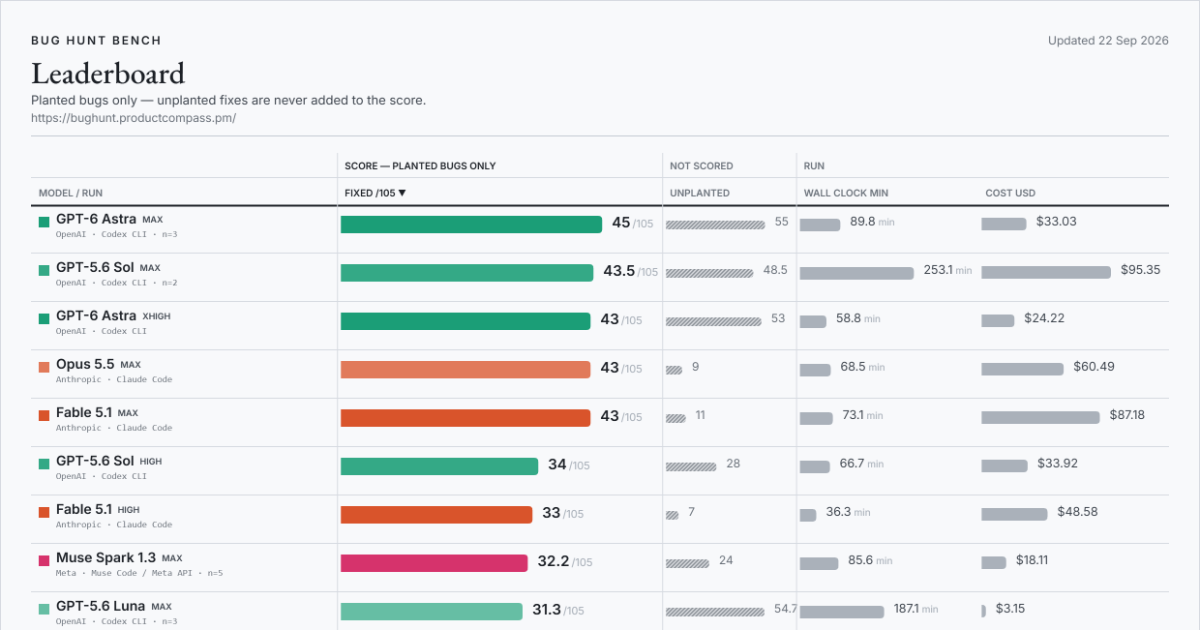
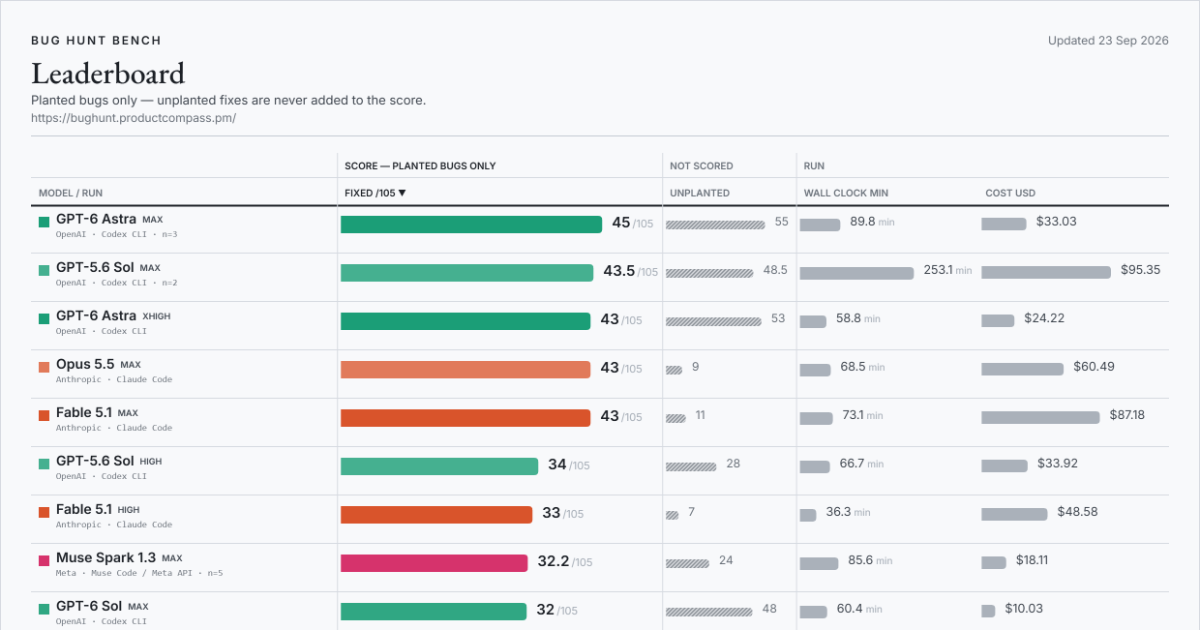
bug hunt bench: GPT-6 Sol (max effort) (32/105)

diff --git a/index.html b/index.html
@@ -22,14 +22,14 @@
 <meta property="og:title" content="Bug Hunt Bench — frontier coding models against real planted bugs">
 <meta property="og:description" content="A blind-graded benchmark of frontier coding models on real bugs planted in two production codebases. The score counts planted bugs only; extra fixes are tracked separately and never added.">
 <meta property="og:url" content="https://bughunt.productcompass.pm/">
-<meta property="og:image" content="https://bughunt.productcompass.pm/og-image.png?v=2026-09-22-42d2c5bd">
+<meta property="og:image" content="https://bughunt.productcompass.pm/og-image.png?v=2026-09-23-176222b2">
 <meta property="og:image:width" content="1200">
 <meta property="og:image:height" content="630">
 <meta property="og:image:alt" content="Bug Hunt Bench leaderboard">
 <meta name="twitter:card" content="summary_large_image">
 <meta name="twitter:title" content="Bug Hunt Bench — frontier coding models against real planted bugs">
 <meta name="twitter:description" content="A blind-graded benchmark of frontier coding models on real bugs planted in two production codebases. The score counts planted bugs only.">
-<meta name="twitter:image" content="https://bughunt.productcompass.pm/og-image.png?v=2026-09-22-42d2c5bd">
+<meta name="twitter:image" content="https://bughunt.productcompass.pm/og-image.png?v=2026-09-23-176222b2">
 <meta name="twitter:creator" content="@PawelHuryn">
 
 <link rel="icon" href="/assets/favicon.svg" type="image/svg+xml">

diff --git a/method.html b/method.html
@@ -20,14 +20,14 @@
 <meta property="og:title" content="Method, caveats and definitions — Bug Hunt Bench">
 <meta property="og:description" content="How Bug Hunt Bench is run and graded, what the board cannot tell you, and what every column on it means.">
 <meta property="og:url" content="https://bughunt.productcompass.pm/method">
-<meta property="og:image" content="https://bughunt.productcompass.pm/og-image.png?v=2026-09-22-42d2c5bd">
+<meta property="og:image" content="https://bughunt.productcompass.pm/og-image.png?v=2026-09-23-176222b2">
 <meta property="og:image:width" content="1200">
 <meta property="og:image:height" content="630">
 <meta property="og:image:alt" content="Bug Hunt Bench leaderboard">
 <meta name="twitter:card" content="summary_large_image">
 <meta name="twitter:title" content="Method, caveats and definitions — Bug Hunt Bench">
 <meta name="twitter:description" content="How Bug Hunt Bench is run and graded, what the board cannot tell you, and what every column on it means.">
-<meta name="twitter:image" content="https://bughunt.productcompass.pm/og-image.png?v=2026-09-22-42d2c5bd">
+<meta name="twitter:image" content="https://bughunt.productcompass.pm/og-image.png?v=2026-09-23-176222b2">
 <meta name="twitter:creator" content="@PawelHuryn">
 
 <link rel="icon" href="/assets/favicon.svg" type="image/svg+xml">

diff --git a/README.md b/README.md
@@ -7,9 +7,9 @@
 If the numbers save you a benchmark run of your own, **star this repo** — that is what keeps the bench findable, and new models are added as they ship.
 
 <!-- leaderboard:start -->
-![Bug Hunt Bench leaderboard, the featured runs, updated Sep 22, 2026](assets/leaderboard.png?v=2026-09-22-1b19116e)
+![Bug Hunt Bench leaderboard, the featured runs, updated Sep 23, 2026](assets/leaderboard.png?v=2026-09-23-1b19116e)
 
-**Updated Sep 22, 2026 · 118 rows from 174 scored runs · 36 models · 32 of 105 bugs have never been fixed by any model.**
+**Updated Sep 23, 2026 · 119 rows from 175 scored runs · 37 models · 31 of 105 bugs have never been fixed by any model.**
 
 **Current leader:** GPT-6 Astra at `max` effort — **45 / 105** (22/45 on repo 1, 23/60 on repo 2).
 
@@ -29,75 +29,76 @@ If the numbers save you a benchmark run of your own, **star this repo** — that
 | 10 | GPT-5.6 Sol | Codex CLI | high | 1 | **34** | 13 | 21 | 28 | 67 min | $33.92 | 2026-07-31 |
 | 11 | Fable 5.1 | Claude Code | high | 1 | **33** | 15 | 18 | 7 | 36 min | $48.58 | 2026-09-01 |
 | 12 | Muse Spark 1.3 | Muse Code / Meta API | max | 5 | **32.2** | 14.2 | 18 | 24 | 86 min | $18.11 | 2026-09-17 |
-| 13 | Opus 5.5 | Claude Code | high | 1 | **32** | 14 | 18 | 7 | 24 min | $23.03 | 2026-09-22 |
-| 14 | GPT-5.6 Terra | Codex CLI | max | 1 | **32** | 16 | 16 | 45 | 160 min | $27.98 | 2026-08-27 |
-| 15 | GPT-5.6 Luna | Codex CLI | max | 3 | **31.3** | 16 | 15.3 | 54.7 | 187 min | $3.15 | 2026-09-22 |
-| 16 | Pareto (ex-Union Alpha) | Claude Code / OpenRouter | default | 3 | **30.7** | 16 | 14.7 | 10.3 | 38 min | $4.81 | 2026-09-17 |
-| 17 | Opus 5.5 | Claude Code | medium | 1 | **30** | 11 | 19 | 15 | 17 min | $16.55 | 2026-09-22 |
-| 18 | GPT-5.6 Sol | Codex CLI | medium | 1 | **29** | 13 | 16 | 24 | 48 min | $15.77 | 2026-09-06 |
-| 19 | Fable 5.1 | Claude Code | low | 1 | **29** | 13 | 16 | 6 | 33 min | $33.00 | 2026-09-02 |
-| 20 | Fable 5.1 | Claude Code | xhigh | 1 | **29** | 13 | 16 | 4 | 60 min | $53.61 | 2026-09-10 |
-| 21 | Fable 5 | Claude Code | max | 1 | **29** | 12 | 17 | 5 | 57 min | $112.40 | 2026-08-01 |
-| 22 | Grok 4.7 | Grok Build CLI (ACP) | xhigh | 4 | **28.8** | 13 | 15.8 | 31.8 | 46 min | $22.89 floor | 2026-09-21 |
-| 23 | Grok 4.6 | Grok Build CLI (ACP) | xhigh | 3 | **28.7** | 11.7 | 17 | 18 | 43 min | $18.60 floor | 2026-09-14 |
-| 24 | GPT-6 Astra | Codex CLI | low | 1 | **27** | 18 | 9 | 25 | 32 min | $11.69 | 2026-09-05 |
-| 25 | Opus 5 | Claude Code | max | 1 | **27** | 13 | 14 | 2 | 60 min | $54.94 | 2026-08-01 |
-| 26 | Grok 4.7 | Grok Build CLI (ACP) | medium | 3 | **26.7** | 12 | 14.7 | 22.7 | 31 min | $16.76 floor | 2026-09-21 |
-| 27 | Qwen3.8-Flash | Claude Code / Alibaba API | max | 1 | **26** | 13 | 13 | 7 | 97 min | $1.81 | 2026-09-11 |
-| 28 | Opus 5 | Claude Code | xhigh | 1 | **26** | 14 | 12 | 3 | 50 min | $63.25 | 2026-08-28 |
-| 29 | Qwen3.8-Max | Claude Code / Alibaba API | max | 3 | **25.7** | 12.3 | 13.3 | 7 | 117 min | $26.76 | 2026-09-15 |
-| 30 | Opus 5 | Claude Code | medium | 1 | **24** | 11 | 13 | 4 | 30 min | $37.40 | 2026-08-27 |
-| 31 | Fable 5 | Claude Code | high | 1 | **24** | 9 | 15 | 3 | 31 min | $74.52 | 2026-07-26 |
-| 32 | MiMo-V2.6-Flash | Claude Code / OpenRouter | default | 3 | **23.3** | 8 | 15.3 | 7.3 | 71 min | $0.49 bill | 2026-09-22 |
-| 33 | Qwen3.8-Flash | Claude Code / Alibaba API | low | 1 | **23** | 11 | 12 | 7 | 98 min | $1.37 | 2026-09-11 |
-| 34 | GPT-5.6 Luna | Codex CLI | xhigh | 1 | **23** | 10 | 13 | 53 | 136 min | $2.50 | 2026-08-28 |
-| 35 | Grok 4.6 | Grok Build CLI (ACP) | high | 1 | **23** | 7 | 16 | 16 | 33 min | $15.73 floor | 2026-08-28 |
-| 36 | MiMo-V2.6-Pro | Claude Code / OpenRouter | default | 3 | **22.7** | 11.3 | 11.3 | 5.3 | 91 min | $0.86 bill | 2026-09-22 |
-| 37 | Grok 4.6 | Grok Build CLI (ACP) | medium | 1 | **22** | 9 | 13 | 11 | 26 min | $5.80 floor | 2026-08-28 |
-| 38 | Gemini 3.7 Flash | Gemini CLI (retired) + model-pinning gateway | high | 1 | **22** | 8 | 14 | 4 | 97 min | $8.43 | 2026-08-24 |
-| 39 | DeepSeek V4.1 Flash | Claude Code / DeepSeek API | max | 3 | **21.7** | 11.3 | 10.3 | 6.7 | 56 min | $0.78 bill | 2026-09-15 |
-| 40 | Fable 5.1 | Claude Code | medium | 1 | **21** | 8 | 13 | 3 | 23 min | $23.73 | 2026-09-10 |
-| 41 | Kimi K3 | Claude Code / OpenRouter | default | 1 | **21** | 4 | 17 | 6 | 108 min | $25.27 | 2026-07-26 |
-| 42 | Opus 5 | Claude Code | high | 1 | **21** | 11 | 10 | 6 | 37 min | $41.51 | 2026-07-26 |
-| 43 | Muse Spark 1.3 | Muse Code / Meta API | xhigh | 3 | **20.3** | 8 | 12.3 | 13.3 | 64 min | $13.71 | 2026-09-14 |
-| 44 | GPT-5.6 Terra | Codex CLI | xhigh | 1 | **20** | 9 | 11 | 29 | 57 min | $8.98 | 2026-08-28 |
-| 45 | Grok 4.7 | Grok Build CLI (ACP) | high | 3 | **19.3** | 8.7 | 10.7 | 15.7 | 38 min | $12.29 floor | 2026-09-21 |
-| 46 | DeepSeek V4.1 Flash | Claude Code / DeepSeek API | high | 1 | **19** | 9 | 10 | 4 | 26 min | $0.31 bill | 2026-09-10 |
-| 47 | GLM-5.3 | Claude Code / Z.ai API | max | 1 | **19** | 9 | 10 | 2 | 40 min | $15.93 | 2026-09-10 |
-| 48 | Muse Spark 1.3 | Muse Code / Meta API | high | 3 | **18.7** | 8.7 | 10 | 19.3 | 76 min | $12.94 | 2026-09-14 |
-| 49 | MiMo-V2.6-Pro | Claude Code / Xiaomi first-party | enabled | 1 | **18** | 9 | 9 | 4 | 75 min | $0.59 | 2026-09-22 |
-| 50 | Hy4 Preview | Claude Code / OpenRouter | default | 1 | **18** | 9 | 9 | 2 | 68 min | $3.13 bill | 2026-08-28 |
-| 51 | GPT-5.6 Terra | Codex CLI | high | 1 | **18** | 7 | 11 | 17 | 28 min | $5.89 | 2026-08-27 |
-| 52 | Gemini 3.8 Flash | Antigravity CLI | high | 3 | **18** | 6.7 | 11.3 | 4 | 39 min | $11.03 | 2026-09-15 |
-| 53 | GLM-5.3 Flash | Claude Code / Z.ai API | max | 3 | **17.7** | 9.3 | 8.3 | 3.3 | 63 min | $1.03 | 2026-09-15 |
-| 54 | Grok 4.5 | Grok Build CLI (ACP) | high | 1 | **17** | 5 | 12 | 10 | 28 min | $8.50 floor | 2026-08-06 |
-| 55 | Muse Spark 1.2 | Claude Code / Meta API | xhigh | 1 | **17** | 6 | 11 | 12 | 36 min | $13.99 | 2026-08-06 |
-| 56 | Ox Alpha (stealth) | Claude Code / OpenRouter | default | 1 | **16** | 8 | 8 | 3 | 59 min | free | 2026-08-25 |
-| 57 | GLM-5.3 Flash | Claude Code / Z.ai API | high | 1 | **16** | 9 | 7 | 4 | 62 min | $0.94 | 2026-09-13 |
-| 58 | DeepSeek V4-Pro | Claude Code / DeepSeek API | max | 1 | **16** | 8 | 8 | 4 | 37 min | $1.89 bill | 2026-09-10 |
-| 59 | Gemini 3.7 Flash | Antigravity CLI | high | 1 | **16** | 4 | 12 | 2 | 23 min | $6.36 | 2026-08-28 |
-| 60 | Grok 4.7 | Grok Build CLI (ACP) | low | 3 | **15.7** | 10.3 | 5.3 | 18.3 | 22 min | $9.36 floor | 2026-09-21 |
-| 61 | GPT-5.6 Terra | Codex CLI | medium | 1 | **15** | 4 | 11 | 6 | 20 min | $3.87 | 2026-08-27 |
-| 62 | Grok 4.6 | Grok Build CLI (ACP) | low | 1 | **15** | 6 | 9 | 9 | 18 min | $4.14 floor | 2026-08-27 |
-| 63 | Qwen3.8-27B | Claude Code / Alibaba API | xhigh | 3 | **15** | 5.7 | 9.3 | 2.3 | 57 min | $5.55 | 2026-09-15 |
-| 64 | Opus 4.8 | Claude Code | max | 1 | **15** | 6 | 9 | 3 | 109 min | $58.11 | 2026-09-10 |
-| 65 | DeepSeek V4-Flash | Claude Code / OpenRouter | default | 1 | **14** | 6 | 8 | 0 | 48 min | $1.52 bill | 2026-08-01 |
-| 66 | GPT-5.6 Luna | Codex CLI | high | 1 | **13** | 5 | 8 | 22 | 64 min | $0.57 | 2026-07-31 |
-| 67 | GLM-5.3 Flash | Claude Code / OpenRouter | default | 1 | **13** | 6 | 7 | 4 | 57 min | $0.79 bill | 2026-08-27 |
-| 68 | DeepSeek V4-Pro | Claude Code / DeepSeek API | high | 1 | **13** | 4 | 9 | 1 | 27 min | $1.08 bill | 2026-09-10 |
-| 69 | Muse Spark 1.3 | Muse Code / Meta API | medium | 3 | **13** | 5.3 | 7.7 | 17.3 | 58 min | $9.24 | 2026-09-14 |
-| 70 | Qwen3.8-27B 8-bit | Claude Code / OpenRouter | default | 3 | **10.7** | 3.7 | 7 | 1.7 | 57 min | $2.97 bill | 2026-09-16 |
-| 71 | Muse Spark 1.3 | Muse Code / Meta API | low | 3 | **9.7** | 5 | 4.7 | 6.7 | 36 min | $5.61 | 2026-09-14 |
-| 72 | GPT-5.6 Luna | Codex CLI | medium | 1 | **9** | 5 | 4 | 5 | 15 min | $0.33 | 2026-08-27 |
-| 73 | GLM-5.3 Flash | Claude Code / Z.ai API | low | 1 | **9** | 7 | 2 | 4 | 29 min | $0.42 | 2026-09-13 |
-| 74 | Sonnet 5 | Claude Code | high | 1 | **9** | 1 | 8 | 4 | 33 min | $17.06 | 2026-07-26 |
-| 75 | Opus 4.8 | Claude Code | high | 1 | **9** | 2 | 7 | 1 | 35 min | $21.30 | 2026-07-26 |
-| 76 | Sonnet 5 | Claude Code | max | 1 | **9** | 3 | 6 | 3 | 61 min | $26.94 | 2026-09-10 |
-| 77 | GPT-5.6 Luna | Codex CLI | low | 1 | **4** | 0 | 4 | 1 | 6 min | $0.10 | 2026-08-27 |
-| 78 | Gemma 4 31B | Claude Code / OpenRouter | default | 1 | **4** | 1 | 3 | 2 | 222 min | $8.61 bill | 2026-09-16 |
-| 79 | Gemma 4 31B 4-bit | Claude Code / OpenRouter | default | 1 | **3** | 1 | 2 | 2 | 25 min | $0.56 bill | 2026-09-16 |
-| 80 | gpt-oss-120b | Claude Code / OpenRouter | default | 3 | **0** | 0 | 0 | 0.3 | 4 min | $0.11 bill | 2026-09-15 |
-| 81 | gpt-oss-20b | Claude Code / OpenRouter | default | 3 | **0** | 0 | 0 | 0 | 7 min | $0.11 bill | 2026-09-15 |
+| 13 | GPT-6 Sol | Codex CLI | max | 1 | **32** | 18 | 14 | 48 | 60 min | $10.03 | 2026-09-23 |
+| 14 | Opus 5.5 | Claude Code | high | 1 | **32** | 14 | 18 | 7 | 24 min | $23.03 | 2026-09-22 |
+| 15 | GPT-5.6 Terra | Codex CLI | max | 1 | **32** | 16 | 16 | 45 | 160 min | $27.98 | 2026-08-27 |
+| 16 | GPT-5.6 Luna | Codex CLI | max | 3 | **31.3** | 16 | 15.3 | 54.7 | 187 min | $3.15 | 2026-09-22 |
+| 17 | Pareto (ex-Union Alpha) | Claude Code / OpenRouter | default | 3 | **30.7** | 16 | 14.7 | 10.3 | 38 min | $4.81 | 2026-09-17 |
+| 18 | Opus 5.5 | Claude Code | medium | 1 | **30** | 11 | 19 | 15 | 17 min | $16.55 | 2026-09-22 |
+| 19 | GPT-5.6 Sol | Codex CLI | medium | 1 | **29** | 13 | 16 | 24 | 48 min | $15.77 | 2026-09-06 |
+| 20 | Fable 5.1 | Claude Code | low | 1 | **29** | 13 | 16 | 6 | 33 min | $33.00 | 2026-09-02 |
+| 21 | Fable 5.1 | Claude Code | xhigh | 1 | **29** | 13 | 16 | 4 | 60 min | $53.61 | 2026-09-10 |
+| 22 | Fable 5 | Claude Code | max | 1 | **29** | 12 | 17 | 5 | 57 min | $112.40 | 2026-08-01 |
+| 23 | Grok 4.7 | Grok Build CLI (ACP) | xhigh | 4 | **28.8** | 13 | 15.8 | 31.8 | 46 min | $22.89 floor | 2026-09-21 |
+| 24 | Grok 4.6 | Grok Build CLI (ACP) | xhigh | 3 | **28.7** | 11.7 | 17 | 18 | 43 min | $18.60 floor | 2026-09-14 |
+| 25 | GPT-6 Astra | Codex CLI | low | 1 | **27** | 18 | 9 | 25 | 32 min | $11.69 | 2026-09-05 |
+| 26 | Opus 5 | Claude Code | max | 1 | **27** | 13 | 14 | 2 | 60 min | $54.94 | 2026-08-01 |
+| 27 | Grok 4.7 | Grok Build CLI (ACP) | medium | 3 | **26.7** | 12 | 14.7 | 22.7 | 31 min | $16.76 floor | 2026-09-21 |
+| 28 | Qwen3.8-Flash | Claude Code / Alibaba API | max | 1 | **26** | 13 | 13 | 7 | 97 min | $1.81 | 2026-09-11 |
+| 29 | Opus 5 | Claude Code | xhigh | 1 | **26** | 14 | 12 | 3 | 50 min | $63.25 | 2026-08-28 |
+| 30 | Qwen3.8-Max | Claude Code / Alibaba API | max | 3 | **25.7** | 12.3 | 13.3 | 7 | 117 min | $26.76 | 2026-09-15 |
+| 31 | Opus 5 | Claude Code | medium | 1 | **24** | 11 | 13 | 4 | 30 min | $37.40 | 2026-08-27 |
+| 32 | Fable 5 | Claude Code | high | 1 | **24** | 9 | 15 | 3 | 31 min | $74.52 | 2026-07-26 |
+| 33 | MiMo-V2.6-Flash | Claude Code / OpenRouter | default | 3 | **23.3** | 8 | 15.3 | 7.3 | 71 min | $0.49 bill | 2026-09-22 |
+| 34 | Qwen3.8-Flash | Claude Code / Alibaba API | low | 1 | **23** | 11 | 12 | 7 | 98 min | $1.37 | 2026-09-11 |
+| 35 | GPT-5.6 Luna | Codex CLI | xhigh | 1 | **23** | 10 | 13 | 53 | 136 min | $2.50 | 2026-08-28 |
+| 36 | Grok 4.6 | Grok Build CLI (ACP) | high | 1 | **23** | 7 | 16 | 16 | 33 min | $15.73 floor | 2026-08-28 |
+| 37 | MiMo-V2.6-Pro | Claude Code / OpenRouter | default | 3 | **22.7** | 11.3 | 11.3 | 5.3 | 91 min | $0.86 bill | 2026-09-22 |
+| 38 | Grok 4.6 | Grok Build CLI (ACP) | medium | 1 | **22** | 9 | 13 | 11 | 26 min | $5.80 floor | 2026-08-28 |
+| 39 | Gemini 3.7 Flash | Gemini CLI (retired) + model-pinning gateway | high | 1 | **22** | 8 | 14 | 4 | 97 min | $8.43 | 2026-08-24 |
+| 40 | DeepSeek V4.1 Flash | Claude Code / DeepSeek API | max | 3 | **21.7** | 11.3 | 10.3 | 6.7 | 56 min | $0.78 bill | 2026-09-15 |
+| 41 | Fable 5.1 | Claude Code | medium | 1 | **21** | 8 | 13 | 3 | 23 min | $23.73 | 2026-09-10 |
+| 42 | Kimi K3 | Claude Code / OpenRouter | default | 1 | **21** | 4 | 17 | 6 | 108 min | $25.27 | 2026-07-26 |
+| 43 | Opus 5 | Claude Code | high | 1 | **21** | 11 | 10 | 6 | 37 min | $41.51 | 2026-07-26 |
+| 44 | Muse Spark 1.3 | Muse Code / Meta API | xhigh | 3 | **20.3** | 8 | 12.3 | 13.3 | 64 min | $13.71 | 2026-09-14 |
+| 45 | GPT-5.6 Terra | Codex CLI | xhigh | 1 | **20** | 9 | 11 | 29 | 57 min | $8.98 | 2026-08-28 |
+| 46 | Grok 4.7 | Grok Build CLI (ACP) | high | 3 | **19.3** | 8.7 | 10.7 | 15.7 | 38 min | $12.29 floor | 2026-09-21 |
+| 47 | DeepSeek V4.1 Flash | Claude Code / DeepSeek API | high | 1 | **19** | 9 | 10 | 4 | 26 min | $0.31 bill | 2026-09-10 |
+| 48 | GLM-5.3 | Claude Code / Z.ai API | max | 1 | **19** | 9 | 10 | 2 | 40 min | $15.93 | 2026-09-10 |
+| 49 | Muse Spark 1.3 | Muse Code / Meta API | high | 3 | **18.7** | 8.7 | 10 | 19.3 | 76 min | $12.94 | 2026-09-14 |
+| 50 | MiMo-V2.6-Pro | Claude Code / Xiaomi first-party | enabled | 1 | **18** | 9 | 9 | 4 | 75 min | $0.59 | 2026-09-22 |
+| 51 | Hy4 Preview | Claude Code / OpenRouter | default | 1 | **18** | 9 | 9 | 2 | 68 min | $3.13 bill | 2026-08-28 |
+| 52 | GPT-5.6 Terra | Codex CLI | high | 1 | **18** | 7 | 11 | 17 | 28 min | $5.89 | 2026-08-27 |
+| 53 | Gemini 3.8 Flash | Antigravity CLI | high | 3 | **18** | 6.7 | 11.3 | 4 | 39 min | $11.03 | 2026-09-15 |
+| 54 | GLM-5.3 Flash | Claude Code / Z.ai API | max | 3 | **17.7** | 9.3 | 8.3 | 3.3 | 63 min | $1.03 | 2026-09-15 |
+| 55 | Grok 4.5 | Grok Build CLI (ACP) | high | 1 | **17** | 5 | 12 | 10 | 28 min | $8.50 floor | 2026-08-06 |
+| 56 | Muse Spark 1.2 | Claude Code / Meta API | xhigh | 1 | **17** | 6 | 11 | 12 | 36 min | $13.99 | 2026-08-06 |
+| 57 | Ox Alpha (stealth) | Claude Code / OpenRouter | default | 1 | **16** | 8 | 8 | 3 | 59 min | free | 2026-08-25 |
+| 58 | GLM-5.3 Flash | Claude Code / Z.ai API | high | 1 | **16** | 9 | 7 | 4 | 62 min | $0.94 | 2026-09-13 |
+| 59 | DeepSeek V4-Pro | Claude Code / DeepSeek API | max | 1 | **16** | 8 | 8 | 4 | 37 min | $1.89 bill | 2026-09-10 |
+| 60 | Gemini 3.7 Flash | Antigravity CLI | high | 1 | **16** | 4 | 12 | 2 | 23 min | $6.36 | 2026-08-28 |
+| 61 | Grok 4.7 | Grok Build CLI (ACP) | low | 3 | **15.7** | 10.3 | 5.3 | 18.3 | 22 min | $9.36 floor | 2026-09-21 |
+| 62 | GPT-5.6 Terra | Codex CLI | medium | 1 | **15** | 4 | 11 | 6 | 20 min | $3.87 | 2026-08-27 |
+| 63 | Grok 4.6 | Grok Build CLI (ACP) | low | 1 | **15** | 6 | 9 | 9 | 18 min | $4.14 floor | 2026-08-27 |
+| 64 | Qwen3.8-27B | Claude Code / Alibaba API | xhigh | 3 | **15** | 5.7 | 9.3 | 2.3 | 57 min | $5.55 | 2026-09-15 |
+| 65 | Opus 4.8 | Claude Code | max | 1 | **15** | 6 | 9 | 3 | 109 min | $58.11 | 2026-09-10 |
+| 66 | DeepSeek V4-Flash | Claude Code / OpenRouter | default | 1 | **14** | 6 | 8 | 0 | 48 min | $1.52 bill | 2026-08-01 |
+| 67 | GPT-5.6 Luna | Codex CLI | high | 1 | **13** | 5 | 8 | 22 | 64 min | $0.57 | 2026-07-31 |
+| 68 | GLM-5.3 Flash | Claude Code / OpenRouter | default | 1 | **13** | 6 | 7 | 4 | 57 min | $0.79 bill | 2026-08-27 |
+| 69 | DeepSeek V4-Pro | Claude Code / DeepSeek API | high | 1 | **13** | 4 | 9 | 1 | 27 min | $1.08 bill | 2026-09-10 |
+| 70 | Muse Spark 1.3 | Muse Code / Meta API | medium | 3 | **13** | 5.3 | 7.7 | 17.3 | 58 min | $9.24 | 2026-09-14 |
+| 71 | Qwen3.8-27B 8-bit | Claude Code / OpenRouter | default | 3 | **10.7** | 3.7 | 7 | 1.7 | 57 min | $2.97 bill | 2026-09-16 |
+| 72 | Muse Spark 1.3 | Muse Code / Meta API | low | 3 | **9.7** | 5 | 4.7 | 6.7 | 36 min | $5.61 | 2026-09-14 |
+| 73 | GPT-5.6 Luna | Codex CLI | medium | 1 | **9** | 5 | 4 | 5 | 15 min | $0.33 | 2026-08-27 |
+| 74 | GLM-5.3 Flash | Claude Code / Z.ai API | low | 1 | **9** | 7 | 2 | 4 | 29 min | $0.42 | 2026-09-13 |
+| 75 | Sonnet 5 | Claude Code | high | 1 | **9** | 1 | 8 | 4 | 33 min | $17.06 | 2026-07-26 |
+| 76 | Opus 4.8 | Claude Code | high | 1 | **9** | 2 | 7 | 1 | 35 min | $21.30 | 2026-07-26 |
+| 77 | Sonnet 5 | Claude Code | max | 1 | **9** | 3 | 6 | 3 | 61 min | $26.94 | 2026-09-10 |
+| 78 | GPT-5.6 Luna | Codex CLI | low | 1 | **4** | 0 | 4 | 1 | 6 min | $0.10 | 2026-08-27 |
+| 79 | Gemma 4 31B | Claude Code / OpenRouter | default | 1 | **4** | 1 | 3 | 2 | 222 min | $8.61 bill | 2026-09-16 |
+| 80 | Gemma 4 31B 4-bit | Claude Code / OpenRouter | default | 1 | **3** | 1 | 2 | 2 | 25 min | $0.56 bill | 2026-09-16 |
+| 81 | gpt-oss-120b | Claude Code / OpenRouter | default | 3 | **0** | 0 | 0 | 0.3 | 4 min | $0.11 bill | 2026-09-15 |
+| 82 | gpt-oss-20b | Claude Code / OpenRouter | default | 3 | **0** | 0 | 0 | 0 | 7 min | $0.11 bill | 2026-09-15 |
 
 **Runs** is how many independent runs the row is built from. A row at `1` is a single measurement. A row above `1` is the MEAN of that many runs of an identical configuration - same model, prompt, harness, route, effort flag and judge - and every count, wall and cost on it is averaged, which is why those rows carry a decimal. The individual runs behind a mean are published in full in the metrics CSVs, so the spread stays auditable: this board has measured a 9-point range of 105 on a fixed configuration, so a single run is not a measurement of a model, and two rows at `1` that differ by a few points may not differ at all.
 

diff --git a/results/run-notes.md b/results/run-notes.md
@@ -2,7 +2,7 @@
 
 Every row on the board, with the note and caveat it carries. Generated from `data/benchmark.json` by `bench_golive.py` - do not edit by hand.
 
-Updated Sep 22, 2026 · 118 rows from 174 scored runs. Superseded rows are listed last.
+Updated Sep 23, 2026 · 119 rows from 175 scored runs. Superseded rows are listed last.
 
 ## GPT-6 Astra (max effort) - mean of 3
 
@@ -73,6 +73,14 @@ Anthropic's Opus 5.5 at xhigh effort through Claude Code on the first-party API.
 **Caveat.** FIVE RUNS, RANGE 6. The spread is the finding, not the mean: at n=3 this arm looked tight (range 2), and two more runs tripled the error bar. Treat 32.2 as an estimate with a wide known spread. TWO OF THE FIVE RUNS ARE SPLIT-VERSION - the harness updated itself mid-experiment and their repo-2 legs ran a newer build; the row explains why the evidence says that is not what lowered them. The replication is UNVERIFIED: this harness reports no context accounting, so nothing confirms the five runs shared a configuration beyond identical arm definitions. Repo figures round independently of the combined mean and can sum to 0.1 away from it.
 
 THE DEEPEST REPLICATION ON THIS BOARD: FIVE RUNS OF ONE CONFIGURATION. Runs scored 33, 33, 35, 29 and 31 of 105 (repo 1: 14, 17, 15, 12, 13 - repo 2: 19, 16, 20, 17, 18). Mean 32.2, range 6. *** WHAT THE TWO EXTRA RUNS BOUGHT WAS AN ERROR BAR, NOT A SCORE. *** The mean moved 1.5 points, from 33.7 to 32.2. The RANGE went from 2 to 6. At n=3 this arm read as tight and well-behaved - 33, 33, 35. At n=5 it spans 29 to 35, which is wider than the gap between several adjacent rows here. The three-run version did not merely estimate the mean imprecisely; it understated how much this configuration varies, in the direction that made it look steadier than it is. Read 32.2 as an estimate with a known and fairly wide spread. *** THE HARNESS UPDATED ITSELF DURING THIS EXPERIMENT, AND TWO RUNS ARE SPLIT-VERSION. *** Muse Code polls a release channel and replaces its own binary. Run 1 ran Muse Code 1.1.1; runs 2-5 ran 1.2.1; and the repo-2 legs of runs 4 and 5 came up on 1.3.0. So those two runs were graded across two harness versions. There is no version pin in the launcher, the channel serves only the current release, and the previous binary is deleted on upgrade, so 1.2.1 cannot be restored and this is not repairable by re-running. Further drift is now suppressed. *** THE DRIFT IS NOT WHAT LOWERED THE SCORE, AND THE SPLIT IS WHAT SHOWS IT. *** The obvious worry is that runs 4 and 5 are low because 1.3.0 is worse. Two facts say otherwise. First, the drop lives on repo 1, where the harness never changed: all four of runs 2-5 ran 1.2.1 there and scored 17, 15, 12 and 13 - a spread of 5 on a single repo with the version held constant. Second, repo 2 shows no version effect at all: the 1.2.1 runs scored 16 and 20, and the two 1.3.0 runs scored 17 and 18, sitting inside that range rather than below it. The low runs are run-to-run variance. That the drift landed on the half where it cannot be doing the damage is luck, not design, and it is disclosed here rather than quietly dropped because the answer happened to be convenient. *** THE REGIME BEHIND THESE RUNS IS UNVERIFIED, NOT VERIFIED. *** CANNOT TELL (gbvb); CANNOT TELL (abhb) - the automated check reads context accounting out of transcripts and this harness reports none, so it cannot confirm the five runs shared a regime. Stated plainly because the alternative is implying a check that did not happen. *** WALL TIME IS AN UPPER BOUND AND IS NOT COMPARABLE ACROSS THE FIVE RUNS. *** Runs 1-3 ran their legs alone. Runs 4 and 5 were run concurrently with each other, a deliberate exception to the usual one-leg-per-provider rule, and their repo-2 legs also shared the machine with other work; every affected row says so itself. Contention can inflate a wall figure and cannot shrink it. Scores, tokens and cost are unaffected. *** THE FAILURE RATE IS PART OF THE PICTURE AND IS VISIBLE IN THE RECEIPTS. *** Runs 4 and 5 needed several attempts on repo 2. Three attempts died without producing a report because the account's subscription quota was exhausted mid-leg - the retry layer absorbed the rate-limit responses and the harness reported three different and all misleading causes, including two stream-idle timeouts and a suspected local network fault. Those attempts produced no report and no score, are NOT counted as low runs here, and cost 8.35 dollars between them. A leg that never finished is not a result. The five runs that did finish cost 90.55 dollars in total.
+
+## GPT-6 Sol (max effort)
+
+**32 / 105** · repo 1 18/45 · repo 2 14/60 · 48 unplanted · 60.4 min · $10.03 · `max` · Codex CLI · single run · 2026-09-23
+
+**Caveat.** ONE RUN, not a mean, on a model measured the night it shipped - and this board has measured a 13-point spread between two runs of a single identical max-effort configuration, so treat 32 as one draw. It also runs a Codex build one version newer than every other OpenAI row here, because the build the others use refuses this model; the harness is therefore not held fixed across that comparison. Cost is a list-rate estimate and a floor - the long-context surcharge is not modelled. The wall figure is contended.
+
+OpenAI's GPT-6 Sol at max effort through OpenAI's own Codex CLI, on a ChatGPT account - the same auth path as every other Sol, Astra, Terra and Luna row here, NOT the metered API. 32 of 105: 18 of 45 on repo 1 and 14 of 60 on repo 2, 48 genuine extras, 60.4 minutes, $10.03. ONE RUN, measured the night the model shipped. *** THE NEWER CHECKPOINT DOES NOT LEAD ITS OWN FAMILY HERE *** GPT-6 Astra scores 48 of 105 at max and 43 at xhigh on this same benchmark; GPT-5.6 Sol scores 42 at max. This row lands at 32, below all three, at a fraction of the cost - $10 against GPT-5.6 Sol's $70. A single run cannot settle a gap that size against a mean, but it is a large gap in the direction nobody would have guessed from the release order. *** IT FINDS A LOT OF THINGS NOBODY PLANTED *** 48 genuine extras - real defects in the repos that are not part of the planted set - is among the highest counts on this board, from a row in the middle of the scoring table. Extras are reported separately and never folded into the score, but a model that flags this many unplanted defects while fixing fewer planted ones is spending its attention somewhere the planted total cannot see. *** THIS ROW RUNS A DIFFERENT CLI BUILD FROM EVERY OTHER OPENAI ROW, UNAVOIDABLY *** the Codex build the rest of this board uses (0.154.0) refuses this model outright - 'The gpt-6-sol model is not supported when using Codex with a ChatGPT account'. 0.155.1 runs it on the same account, same auth, same machine, so the blocker was the client and not entitlement. There is no version of this measurement that holds the harness fixed against the other OpenAI rows; the choice was a one-version harness delta or no row at all. Read the comparison above with that in it. (The rejection message is generic - a deliberately fake slug returns it verbatim - so it is not evidence about any model's existence.) *** THE FIRST TWO ATTEMPTS AT THIS ROW WERE VOID, AND THE REASON IS WORTH KNOWING *** the arm was first pinned to npm's shim rather than the real executable. On Windows that shim resolves to a .cmd, running a .cmd makes the shell re-parse the whole argument list, and a NEWLINE ENDS THE COMMAND - so the model received the benchmark prompt's first line, the repo description, and none of the numbered instructions. Both legs launched, billed and exited 0 with nothing to show the harness: one edited code and wrote no report it had never been asked for, the other replied asking what to work on. Nothing in the leg's own output said the prompt was short. Those legs are kept in the ledger, voided and labelled. This row is a clean re-run of both repos afterwards. A third earlier attempt died on an unrelated fault in the CLI's sandbox setup, since fixed. *** COST IS A LIST ESTIMATE AND A FLOOR *** token counts at OpenAI's published short-context rates, $2 input, $0.20 cached, $10 output per million. Requests over 272K input bill 2x on input and cache and 1.5x on output, which is NOT modelled here, so any leg that crossed that line cost more than this figure says. The Codex CLI on a subscription exposes no per-run bill, hence `list`, comparable only to other list rows. *** THE JUDGE IS NOT THIS BOARD'S DEFAULT, BY RULE *** a model may never judge itself or a sibling, and the default Codex judge is an OpenAI model, so it is disqualified for this arm - as is every other first-party GPT checkpoint here, since the rule is about shared weights and not identity-knowledge. Both legs were judged by grok-4.5, blinded to the arm's identity. *** RECEIPTS *** Both legs exited 0 with a report written, run SEQUENTIALLY, one repo at a time. The run shared the laptop with legs from another vendor, which the wall marker discloses - scores, tokens and cost are untouched by that, only the clock.
 
 ## Opus 5.5 (high effort)
 

diff --git a/results/waves.md b/results/waves.md
@@ -3355,3 +3355,37 @@ where this board already keeps list prices that went stale after a run.
 One claim on the board changed with the numbers. Opus 4.8 (max effort) was described as the worst
 cost-per-fix of any Anthropic row here; after the correction Fable 5 (max effort) edges past it, at
 $3.88 a fix against $3.87. Both notes now say so.
+
+## GPT-6 Sol at max effort — the newer checkpoint does not lead its own family (Sep 23)
+
+Measured the night it shipped. One run, Codex CLI on a ChatGPT account, max effort. **32 of 105**:
+18 of 45 on repo 1, 14 of 60 on repo 2, 48 genuine extras, 60.4 minutes (contended), $10.03.
+
+GPT-6 Astra scores 48 at max and 43 at xhigh on this same benchmark. GPT-5.6 Sol scores 42 at max.
+This row lands below all three — at a seventh of GPT-5.6 Sol's cost. One run cannot settle a gap
+that size against a mean, but it is a large gap pointing the opposite way from the release order.
+
+**48 genuine extras is the part that doesn't fit the score.** Those are real defects in the repos
+that nobody planted, and that count is near the top of the board — from a row in the middle of the
+scoring table. Extras are reported separately and never folded in. A model flagging this many
+unplanted problems while fixing fewer planted ones is spending its attention somewhere the planted
+total can't see.
+
+**One caveat is structural and can't be engineered away.** The Codex build every other OpenAI row
+here uses refuses this model outright — it is not supported on a ChatGPT account on that version.
+A newer build runs it on the same account, same auth, same machine, so the blocker was the client,
+not entitlement. There was no version of this measurement that held the harness fixed against the
+other OpenAI rows: a one-version harness delta, or no row at all.
+
+**And two earlier attempts at this row were void, for a reason worth publishing.** The arm was
+first pointed at npm's launcher shim rather than the real executable. On Windows that shim is a
+`.cmd`, running a `.cmd` makes the shell re-parse the whole argument list, and *a newline ends the
+command*. The model received the prompt's first line — the repo description — and none of the
+numbered instructions. Both legs launched, billed, and exited zero. One edited code and wrote no
+report it had never been asked for; the other replied asking what to work on. Nothing in either
+leg's output said the prompt had been cut. Those rows are kept in the ledger, voided and labelled,
+and the harness now refuses a shim outright.
+
+That is the failure mode worth carrying away from this row: a benchmark can be silently asking a
+different question than the one it prints, and every guardrail — exit code, token spend, wall time,
+a repo full of edits — can agree that nothing went wrong.
